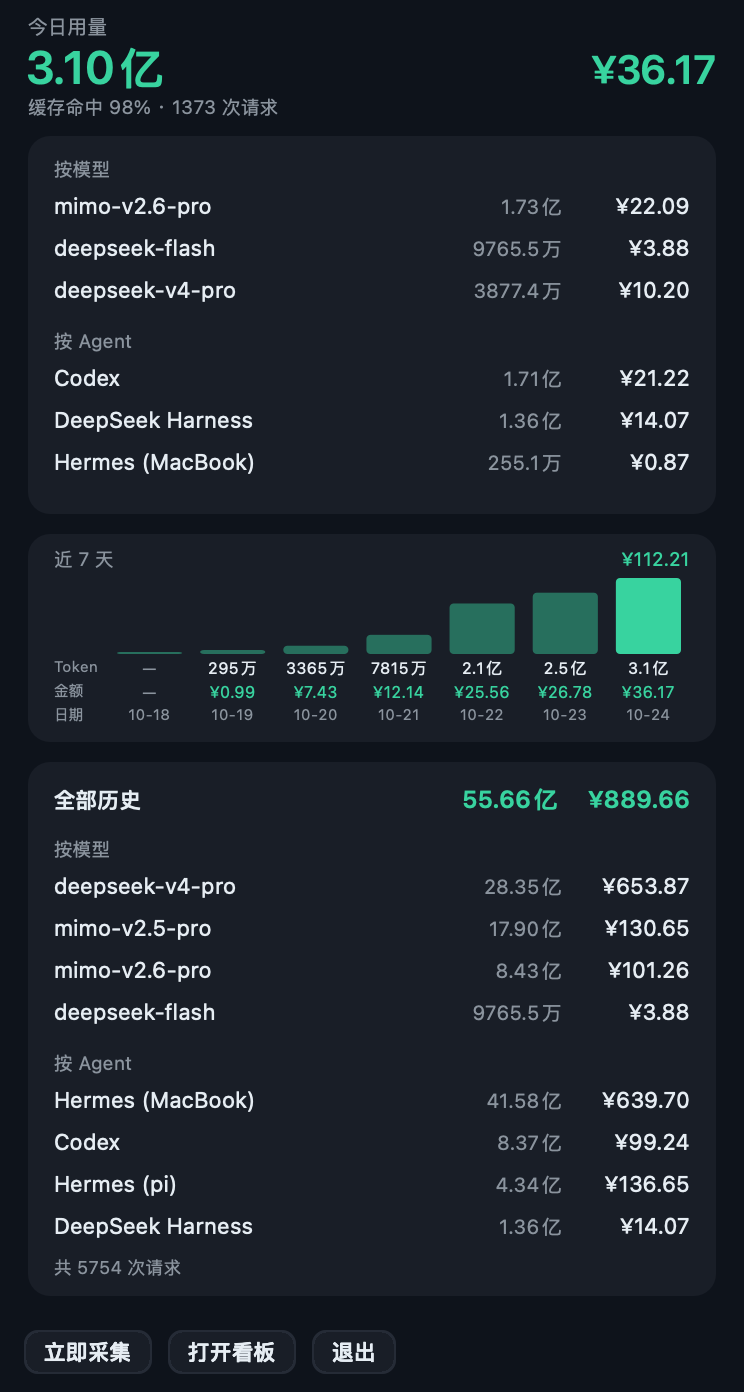
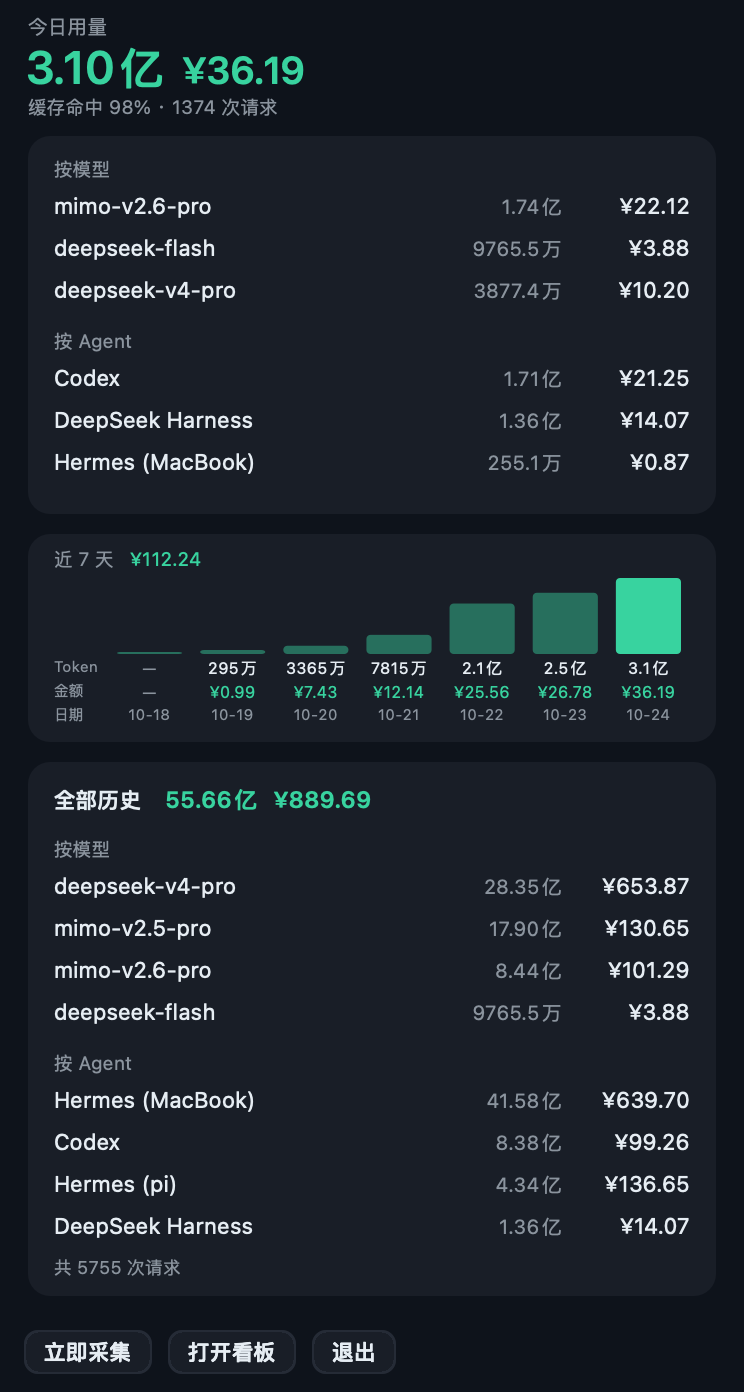
style(panel): 总金额紧跟总 Token 右侧（今日/近7天/全部历史）

diff --git a/menu/TokenLensBar.swift b/menu/TokenLensBar.swift
@@ -256,6 +256,12 @@ final class ChartView: NSView {
         NSAttributedString(string: string, attributes: attrs).draw(in: rect)
     }
 
+    private func width(_ string: String, size: CGFloat, weight: NSFont.Weight) -> CGFloat {
+        NSAttributedString(string: string, attributes: [
+            .font: NSFont.systemFont(ofSize: size, weight: weight),
+        ]).size().width
+    }
+
     private func card(_ rect: NSRect) {
         Palette.card.setFill()
         NSBezierPath(roundedRect: rect, xRadius: 11, yRadius: 11).fill()
@@ -296,11 +302,13 @@ final class ChartView: NSView {
 
     private func drawHeadline(_ snap: Snapshot, today: Snapshot.Window?, symbol: String) {
         text("今日用量", NSPoint(x: pad, y: 7), size: 10, color: Palette.muted)
-        text(cn(today?.tokens ?? 0), NSPoint(x: pad - 1, y: 20), size: 23,
+        let tokenText = cn(today?.tokens ?? 0)
+        text(tokenText, NSPoint(x: pad - 1, y: 20), size: 23,
              weight: .semibold, color: Palette.mint)
-        text(money(today?.cost ?? 0, symbol), NSPoint(x: 0, y: 23), size: 20,
-             weight: .semibold, color: Palette.mint, align: .right,
-             width: bounds.width - pad)
+        // 金额紧贴 token 右侧
+        text(money(today?.cost ?? 0, symbol),
+             NSPoint(x: pad - 1 + width(tokenText, size: 23, weight: .semibold) + 9, y: 24),
+             size: 19, weight: .semibold, color: Palette.mint)
         let rate = Int(((snap.cacheRate ?? 0) * 100).rounded())
         text("缓存命中 \(rate)% · \(today?.events ?? 0) 次请求",
              NSPoint(x: pad, y: 48), size: 9.5, color: Palette.muted)
@@ -340,12 +348,14 @@ final class ChartView: NSView {
         let days = snap.daily ?? []
         guard !days.isEmpty else { return }
 
-        text("近 7 天", NSPoint(x: box.minX + inset, y: box.minY + 7), size: 9.5,
+        let weekTitle = "近 7 天"
+        text(weekTitle, NSPoint(x: box.minX + inset, y: box.minY + 7), size: 9.5,
              color: Palette.muted)
         let week = snap.windows?["week"]
         text(money(week?.cost ?? 0, symbol),
-             NSPoint(x: box.maxX - inset - 70, y: box.minY + 7), size: 9.5,
-             color: Palette.mint, align: .right, width: 70)
+             NSPoint(x: box.minX + inset + width(weekTitle, size: 9.5, weight: .regular) + 8,
+                     y: box.minY + 7),
+             size: 9.5, color: Palette.mint)
 
         let labelX = box.minX + inset
         let chartX = box.minX + 40
@@ -385,13 +395,18 @@ final class ChartView: NSView {
         card(box)
         let cost = (snap.models ?? []).reduce(0.0) { $0 + $1.cost }
 
-        text("全部历史", NSPoint(x: box.minX + inset, y: box.minY + 12), size: 11,
+        let allTitle = "全部历史"
+        text(allTitle, NSPoint(x: box.minX + inset, y: box.minY + 12), size: 11,
              weight: .semibold)
-        text(money(cost, symbol), NSPoint(x: box.maxX - inset - 64, y: box.minY + 11),
-             size: 12, weight: .semibold, color: Palette.mint, align: .right, width: 64)
-        text(cn(snap.allTokens ?? 0),
-             NSPoint(x: box.maxX - inset - 64 - 86, y: box.minY + 11),
-             size: 12, weight: .semibold, color: Palette.mint, align: .right, width: 84)
+        let titleWidth = width(allTitle, size: 11, weight: .semibold)
+        let totalText = cn(snap.allTokens ?? 0)
+        let totalX = box.minX + inset + titleWidth + 12
+        text(totalText, NSPoint(x: totalX, y: box.minY + 12), size: 11.5,
+             weight: .semibold, color: Palette.mint)
+        text(money(cost, symbol),
+             NSPoint(x: totalX + width(totalText, size: 11.5, weight: .semibold) + 8,
+                     y: box.minY + 12),
+             size: 11.5, weight: .semibold, color: Palette.mint)
 
         var y = box.minY + 38
         sectionLabel("按模型", NSPoint(x: box.minX + inset, y: y))
